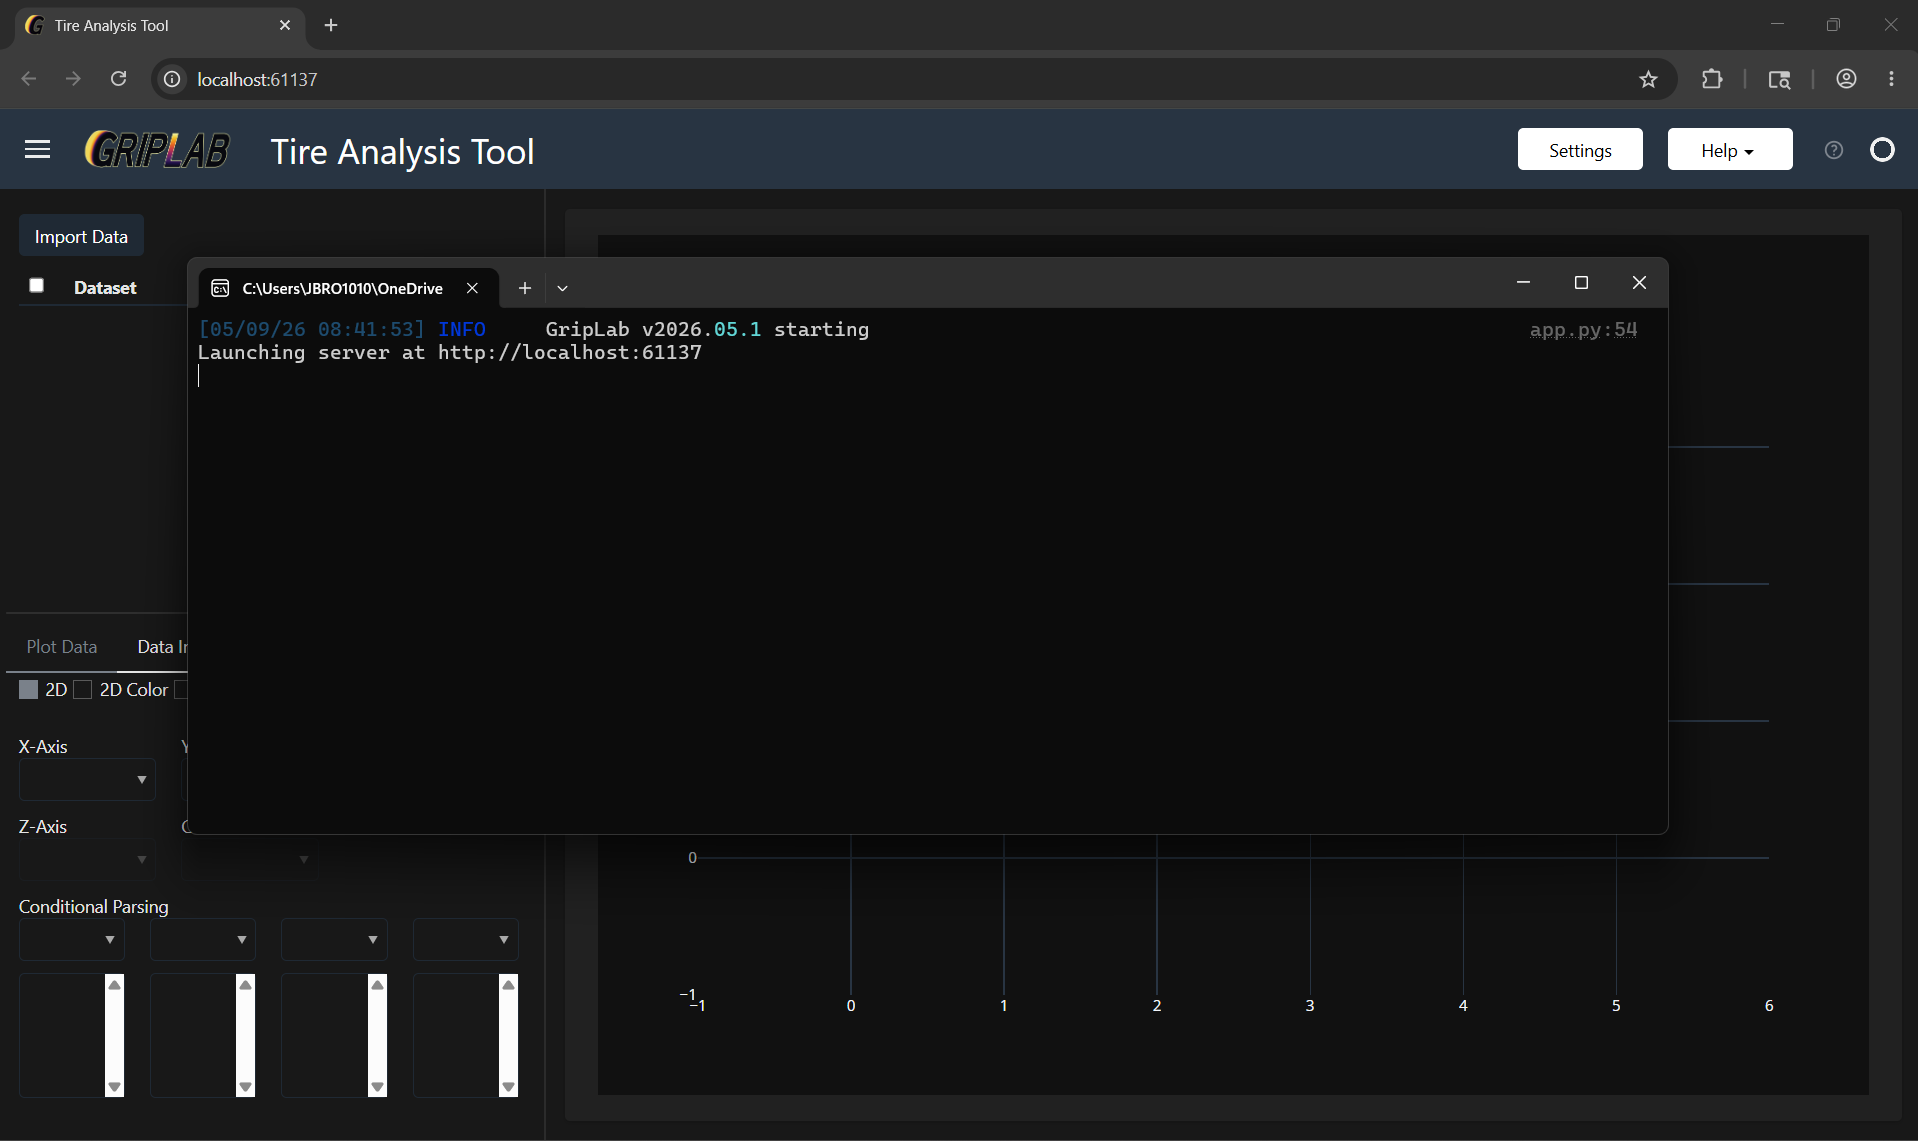
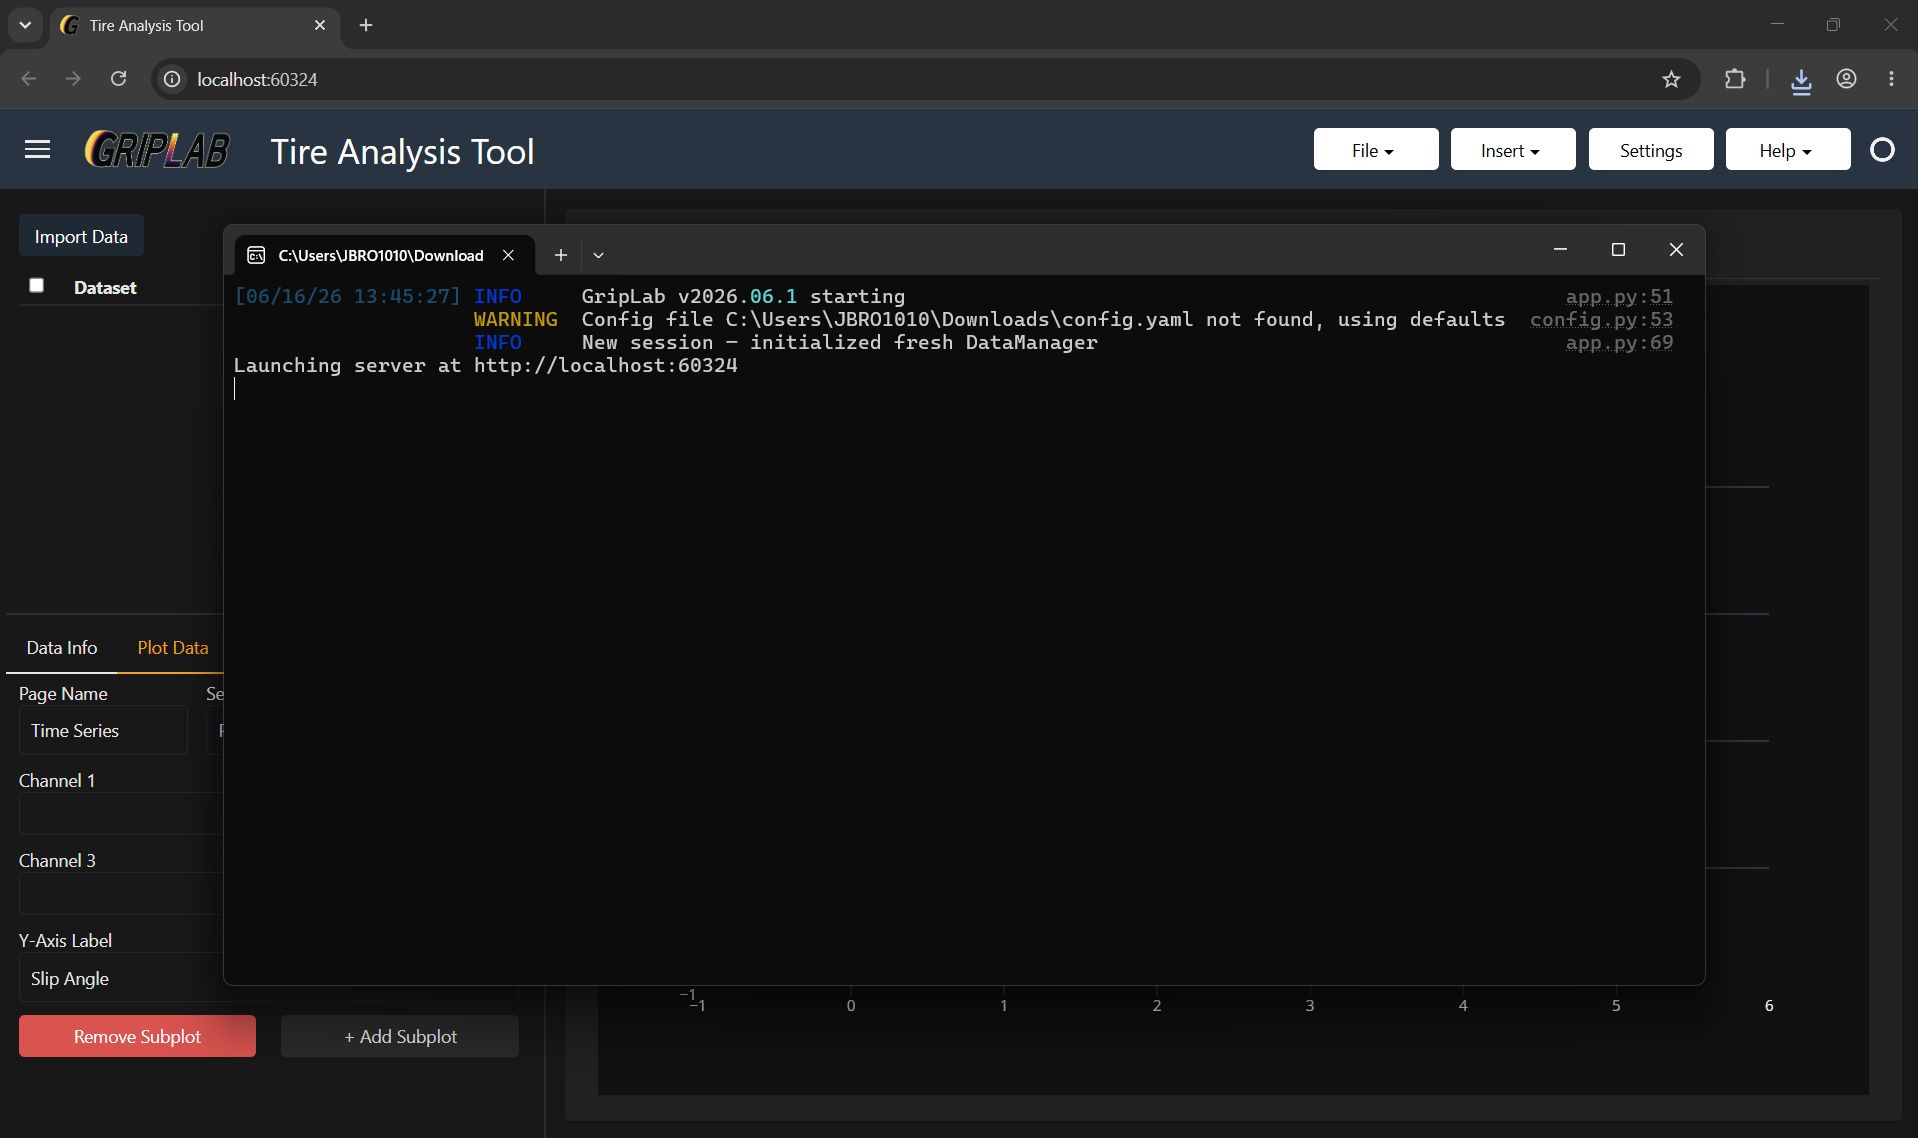
Update images in documentation

diff --git a/docs/USER_GUIDE.md b/docs/USER_GUIDE.md
@@ -99,7 +99,8 @@ Command channels are generated by rounding each data point to the nearest value 
 
 The FZ channel is low-pass filtered before command target assignment to reduce noise. This improves accuracy during steady-state segments but can introduce errors near load transitions, where the filtered signal may lag the actual step.
 
-<!-- [IMAGE PLACEHOLDER: screenshot of cmd channels overlaid once time history plots are available] -->
+![timeseries](images/time_series.png)
+
 ---
 
 ## Managing Datasets
@@ -268,7 +269,7 @@ Click the **⚙** icon next to the Plot button to open plot settings.
 
 Time series plots display one or more channels against elapsed time (ET) as stacked subplots. Each subplot can overlay up to four channels on a shared Y-axis, making them well suited for comparing measured values against commanded targets or examining multiple channels over the same run.
 
-![timeseries](images/time_series.png)
+![timeseriesoverview](images/ts_overview.png)
 
 ### Subplots
 Each time series page is made up of one or more subplots stacked vertically and sharing a common X-axis. Use the subplot selector dropdown in the **Plot Data** sidebar to navigate between subplots.
@@ -294,6 +295,8 @@ The same Plotly toolbar available on scatter plots applies to time series plots.
 ## Time Series Plot Settings
 
 Click the **⚙** icon next to the Plot button on a time series page to open plot settings.
+
+![tsplotsettings](images/ts_plot_settings.png)
 
 | Setting | Description |
 |---|---|